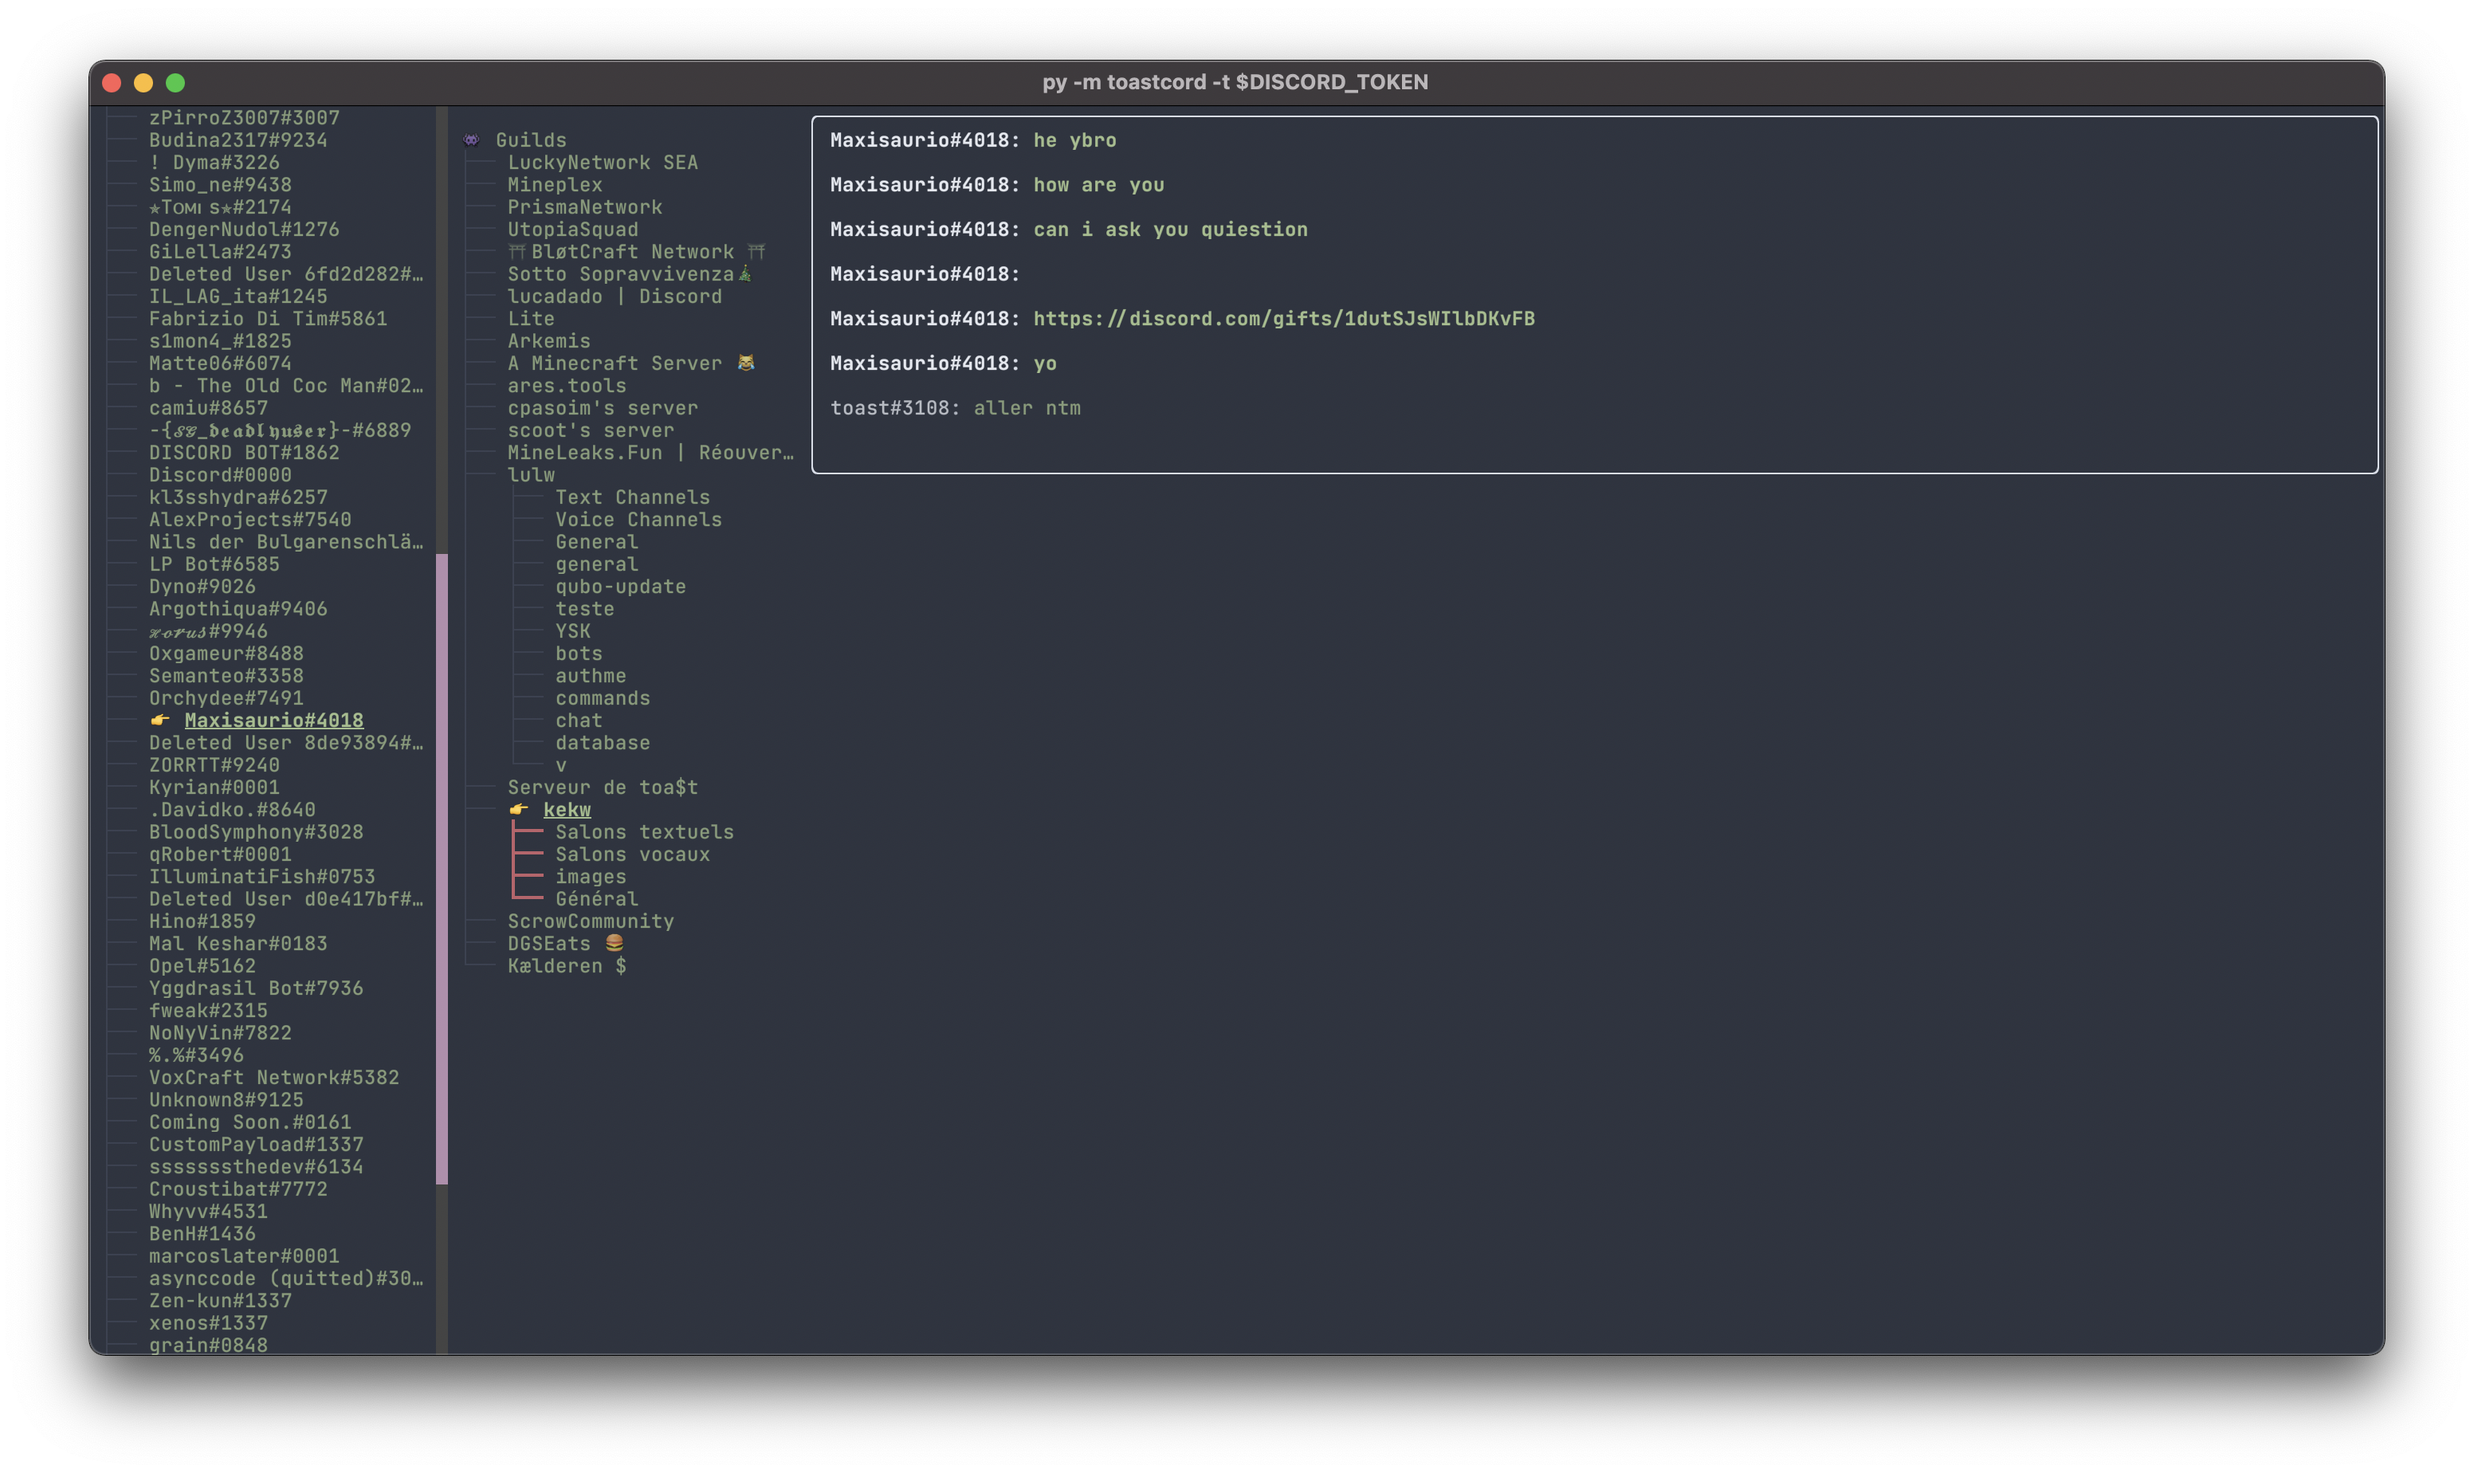
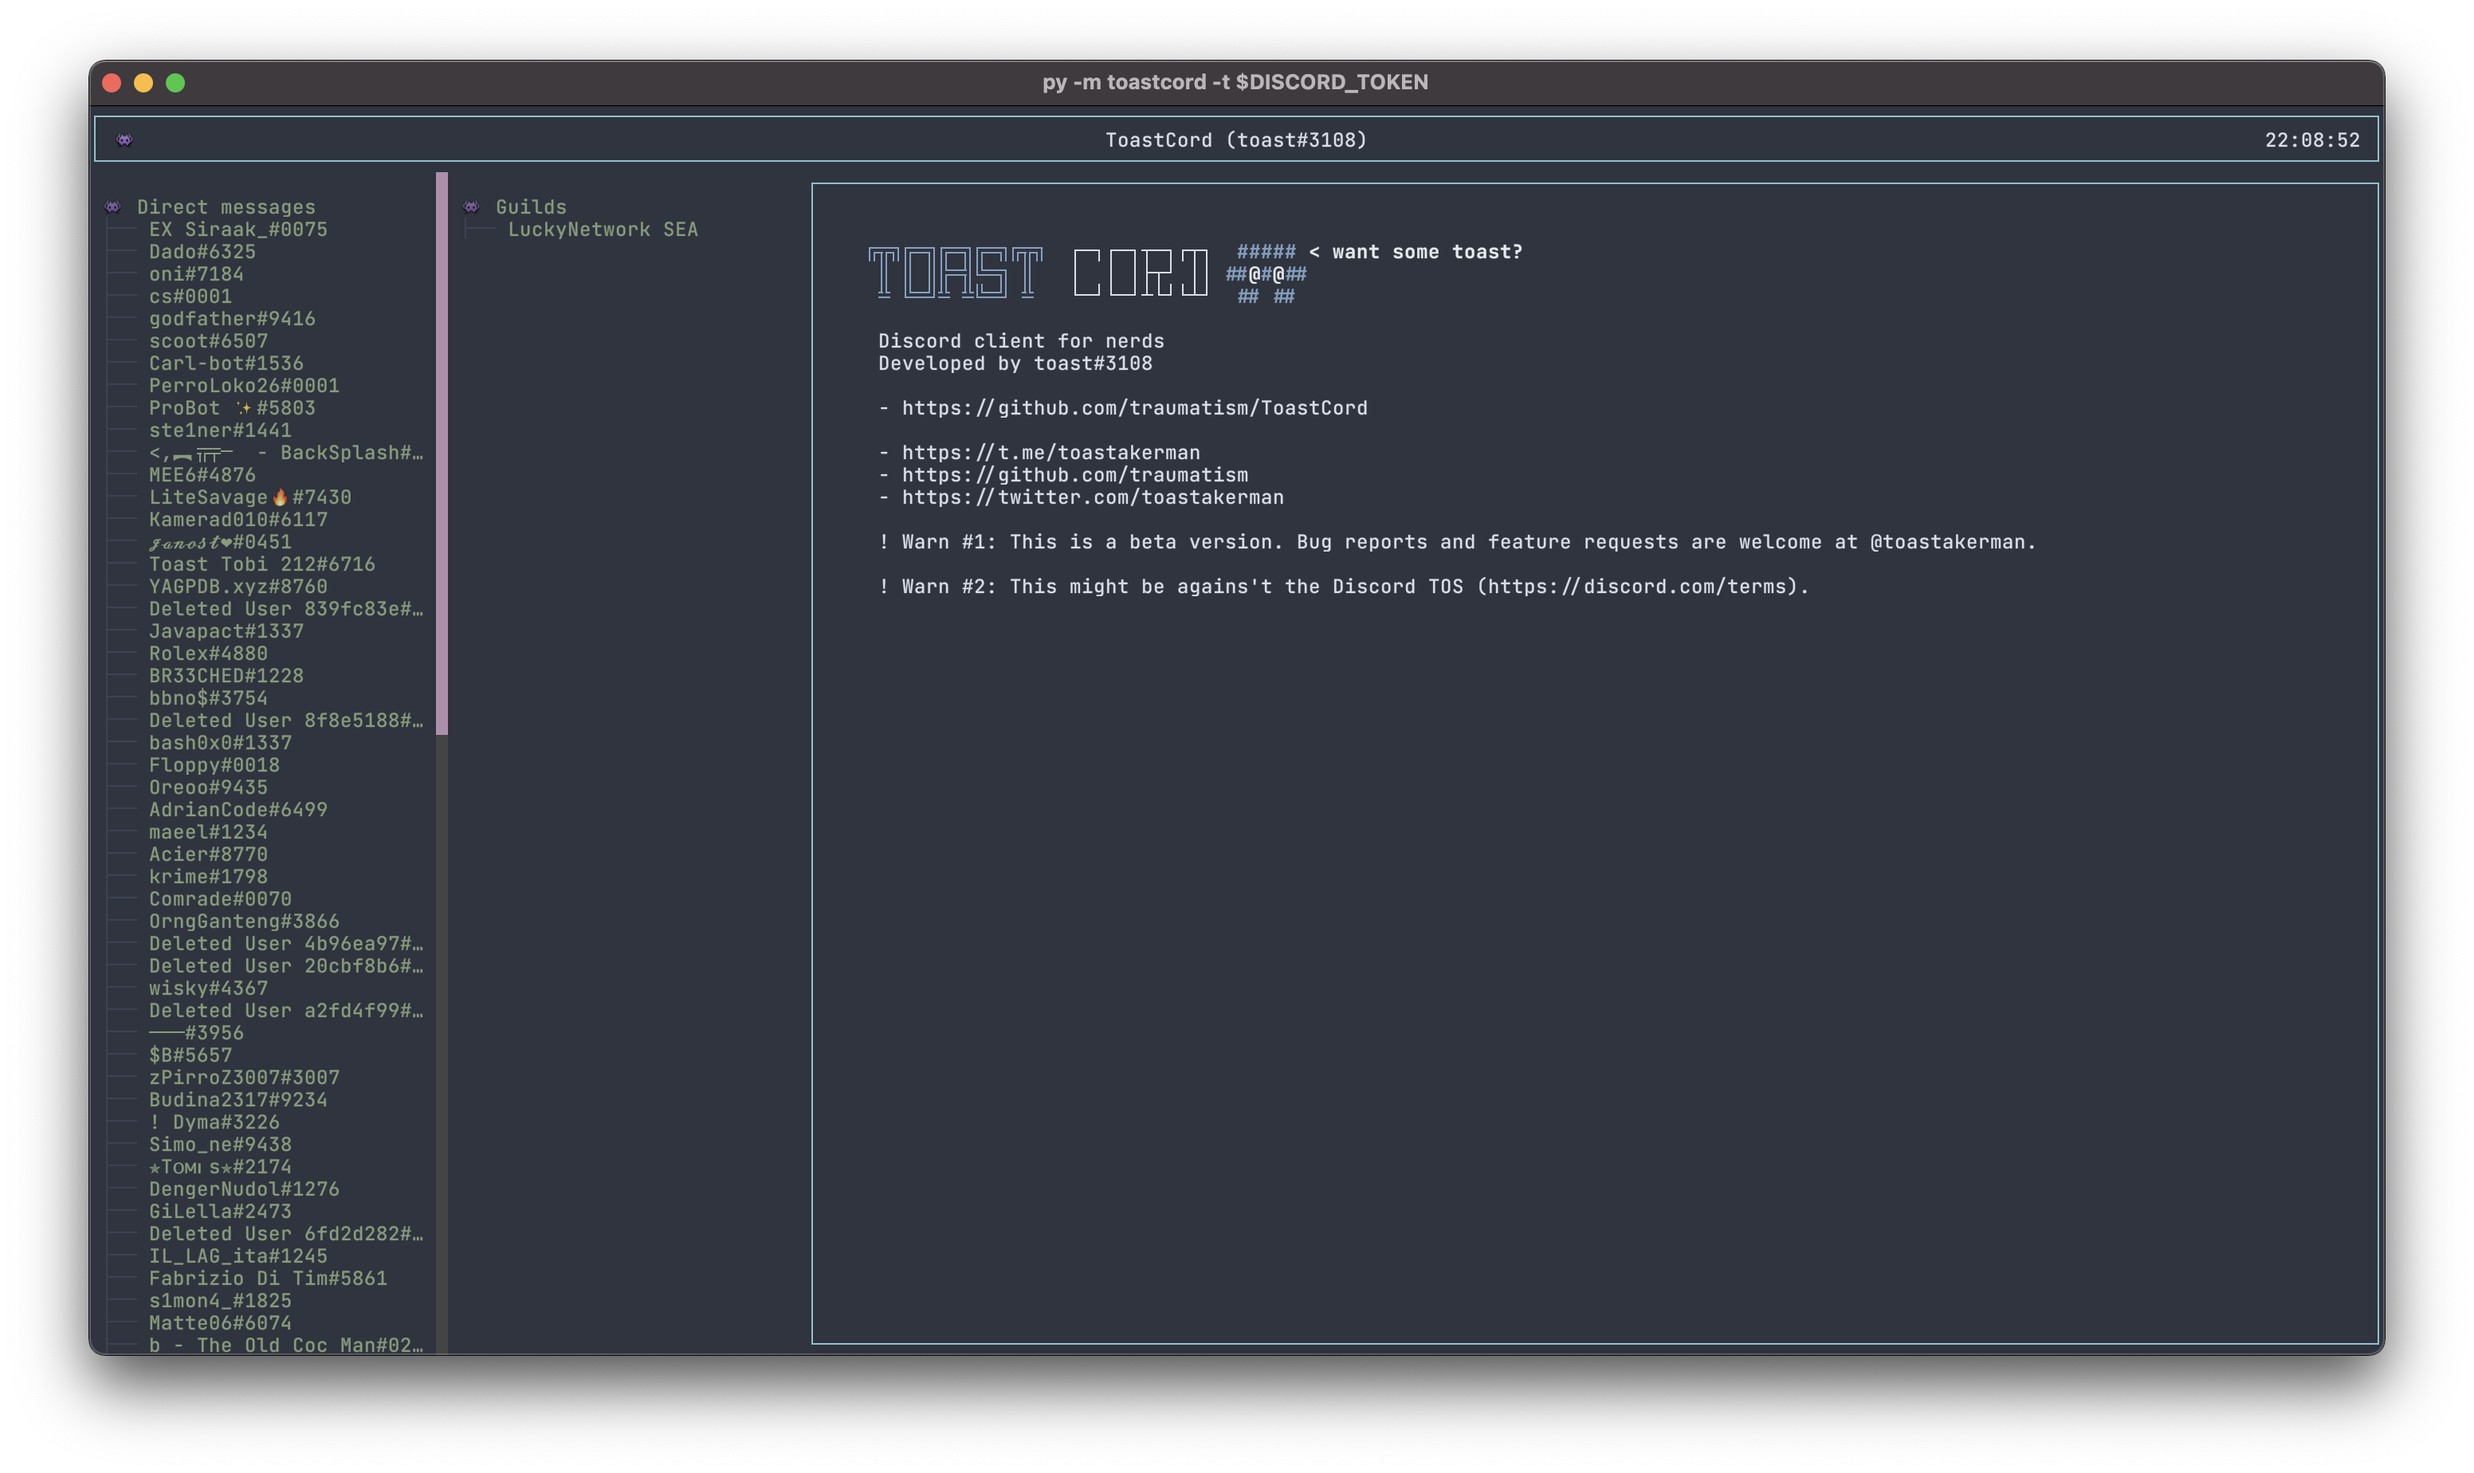
Update

Changed region(s): [[0.0625, 0.0617, 0.3125, 0.9253], [0.3125, 0.0925, 0.7188, 0.401], [0.9062, 0.0925, 0.9375, 0.1234]]

diff --git a/toastcord/__init__.py b/toastcord/__init__.py
@@ -11,14 +11,14 @@ WELCOME_SCREEN = """
     Discord client for nerds
     Developed by toast#3108
 
-    https://github.com/traumatism/ToastCord
+    - https://github.com/traumatism/ToastCord
 
-    https://t.me/toastakerman
-    https://github.com/traumatism
-    https://twitter.com/toastakerman
+    - https://t.me/toastakerman
+    - https://github.com/traumatism
+    - https://twitter.com/toastakerman
 
-    ⚠ Warn #1: This is a beta version. Bug reports and feature requests are welcome at @toastakerman.
+    ! Warn #1: This is a beta version. Bug reports and feature requests are welcome at @toastakerman.
 
-    ⚠ Warn #2: This might be agains't the Discord TOS (https://discord.com/terms).
+    ! Warn #2: This might be agains't the Discord TOS (https://discord.com/terms).
     
 """

diff --git a/toastcord/widgets/main.py b/toastcord/widgets/main.py
@@ -1,3 +1,5 @@
+import os
+
 from rich.table import Table
 
 from textual.app import App
@@ -20,6 +22,7 @@ class MainWindow(App):
     async def on_mount(self) -> None:
         panel = get_panel()
         panel.renderable = WELCOME_SCREEN
+        panel.height = os.get_terminal_size().lines - 3
 
         self.body = ScrollView(panel)
 
